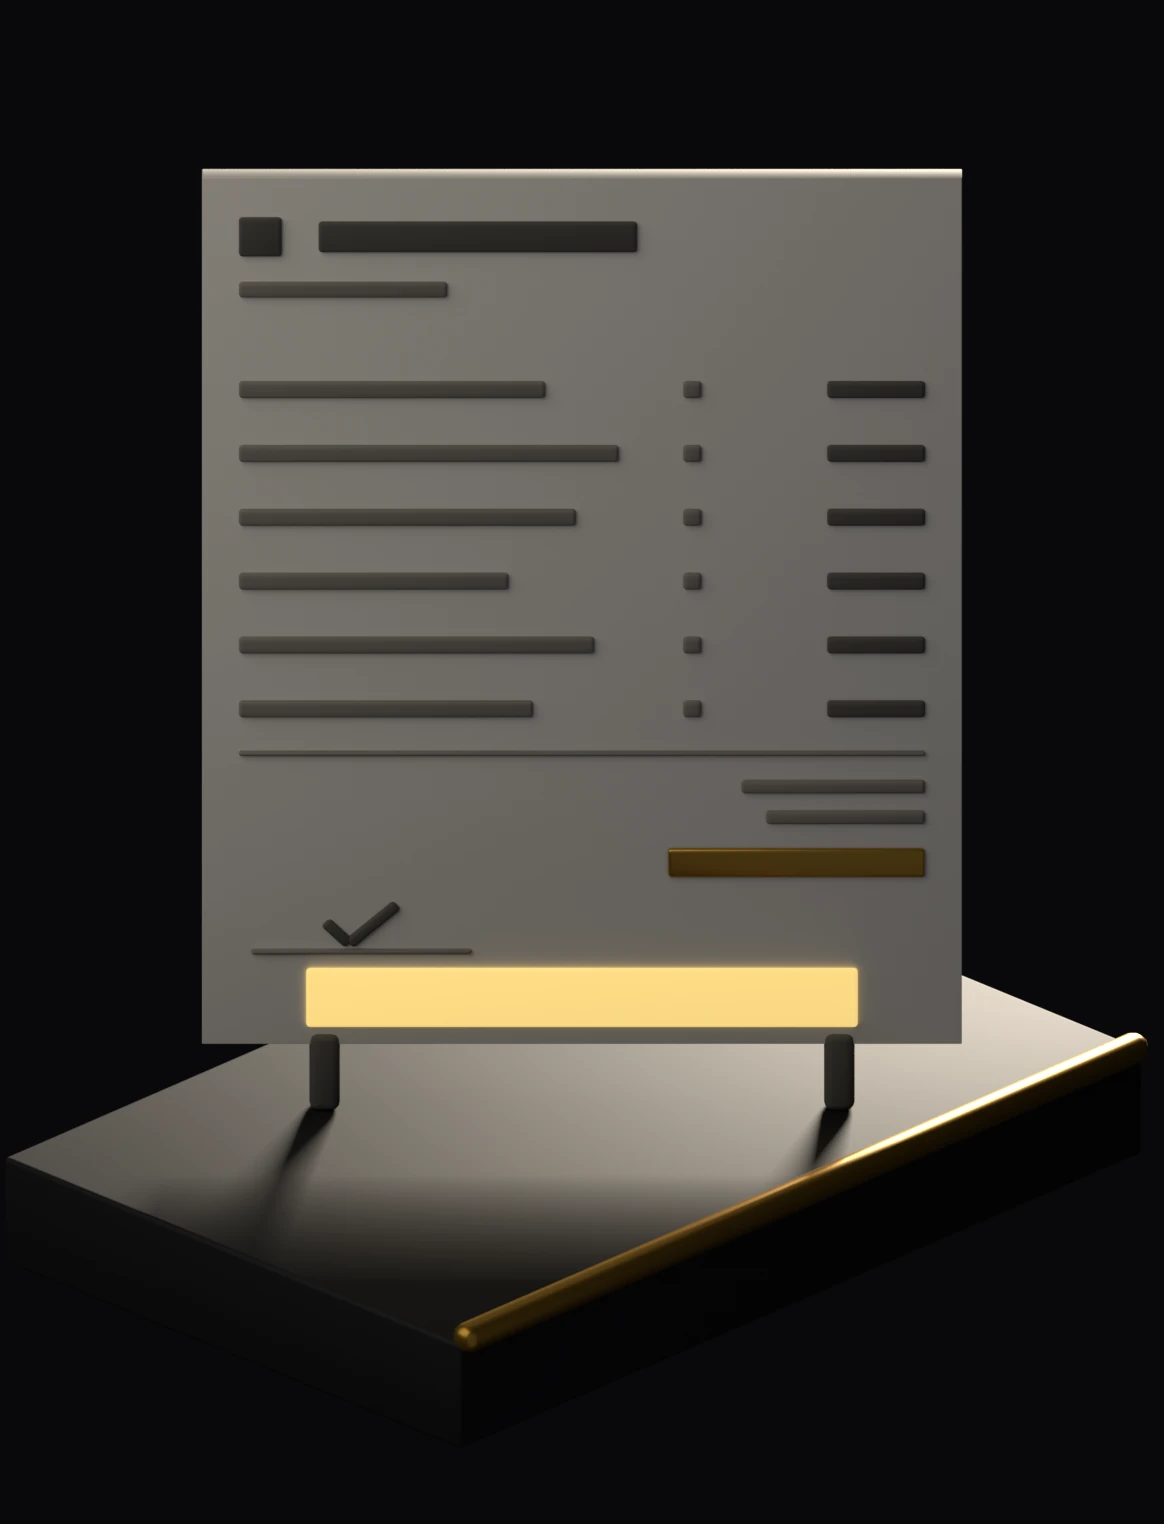
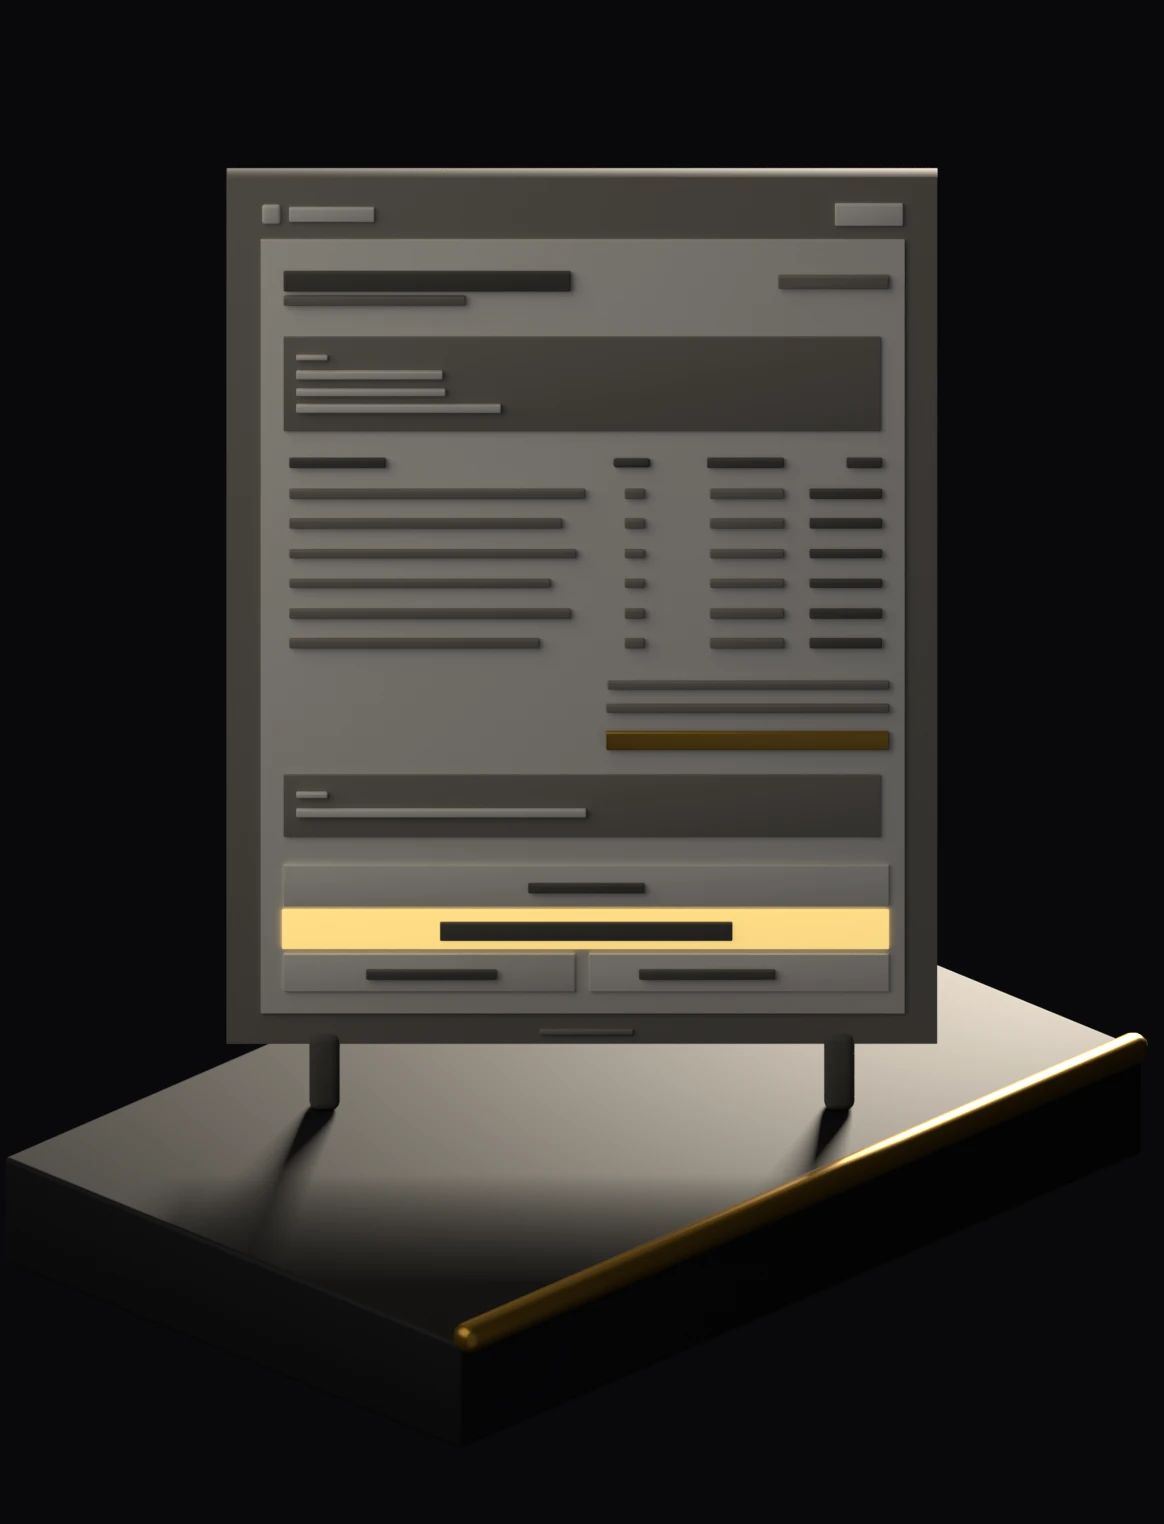
feat(produit-devizly): la v2 REPRODUIT step-payment — actee au gate 67
Le releve structurel commite avant modelisation, 55 blocs aux
positions mesurees, correspondance structurelle falsifiee deux fois
et tenue. Fidelite OUI (le lecteur lit la structure et le cycle
complet), ASP gagnee (« q dit Devizly ; m dit produit SaaS
quelconque »). Ancres re-emises, traits 4/4 apres decroisement vu a
l oeil, boites 0 defaut, build 0. Vlogyz intact.

Changed region(s): [[0.1546, 0.0925, 0.8351, 0.7093]]

diff --git a/components/mockups/DevizlyDemo.tsx b/components/mockups/DevizlyDemo.tsx
@@ -32,11 +32,15 @@ type EtiquetteDevis = {
 
 export default function DevizlyDemo() {
   const t = useTranslations("products");
+  /* Ancres re-emises par la scene REPRODUITE (gate 67 — produit-devizly.
+     ancres.json) : titre, total de la ligne 1, bouton accepter/signer ; le
+     point « encaisse » est sur la bande de carte a GAUCHE du bouton d'or
+     (l'ancre ne se pose jamais sur l'or, plancher 5 px des traits). */
   const etiquettes: EtiquetteDevis[] = [
-    { texte: t("devizlyLabelDevis"), x: 0.05, y: 0.055, cx: 0.4105, cy: 0.1554, largeurMax: 0.4 },
-    { texte: t("devizlyLabelLignes"), x: 0.95, y: 0.055, cx: 0.7526, cy: 0.2562, largeurMax: 0.4 },
-    { texte: t("devizlyLabelSignature"), x: 0.06, y: 0.72, cx: 0.3105, cy: 0.6071, sousLeSocle: true, largeurMax: 0.3 },
-    { texte: t("devizlyLabelEncaissement"), x: 0.28, y: 0.83, cx: 0.2526, cy: 0.6552, sousLeSocle: true, largeurMax: 0.3 },
+    { texte: t("devizlyLabelDevis"), x: 0.05, y: 0.055, cx: 0.3669, cy: 0.1845, largeurMax: 0.4 },
+    { texte: t("devizlyLabelLignes"), x: 0.95, y: 0.055, cx: 0.7266, cy: 0.324, largeurMax: 0.4 },
+    { texte: t("devizlyLabelSignature"), x: 0.28, y: 0.83, cx: 0.3687, cy: 0.6384, sousLeSocle: true, largeurMax: 0.3 },
+    { texte: t("devizlyLabelEncaissement"), x: 0.06, y: 0.72, cx: 0.2326, cy: 0.609, sousLeSocle: true, largeurMax: 0.3 },
   ];
   return (
     <div className="relative mx-auto" style={{ aspectRatio: "1164 / 1524", maxWidth: 582 }}>
